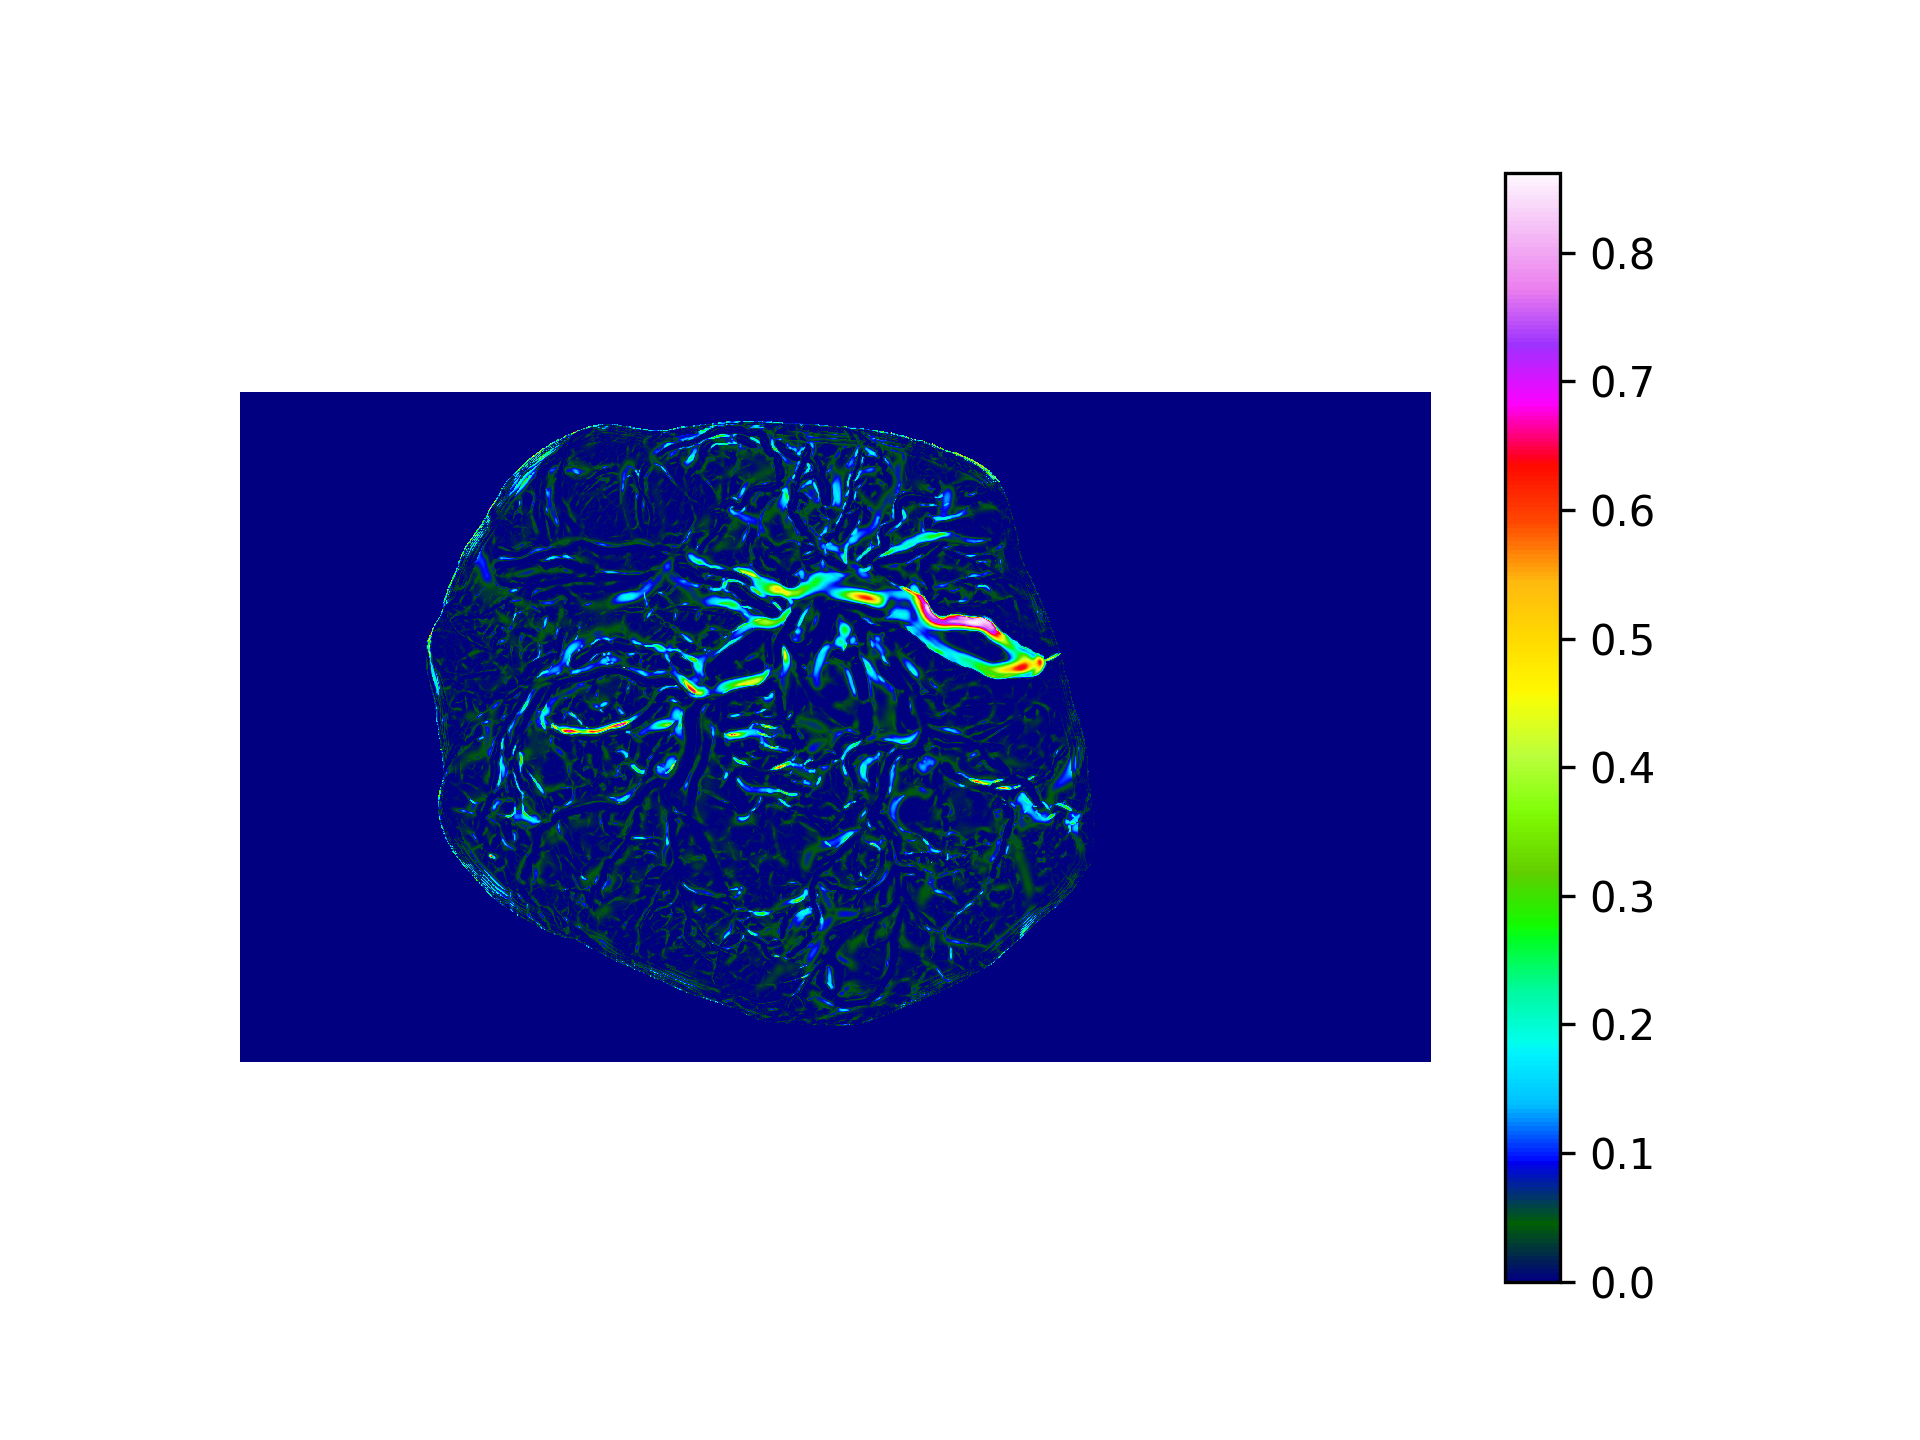
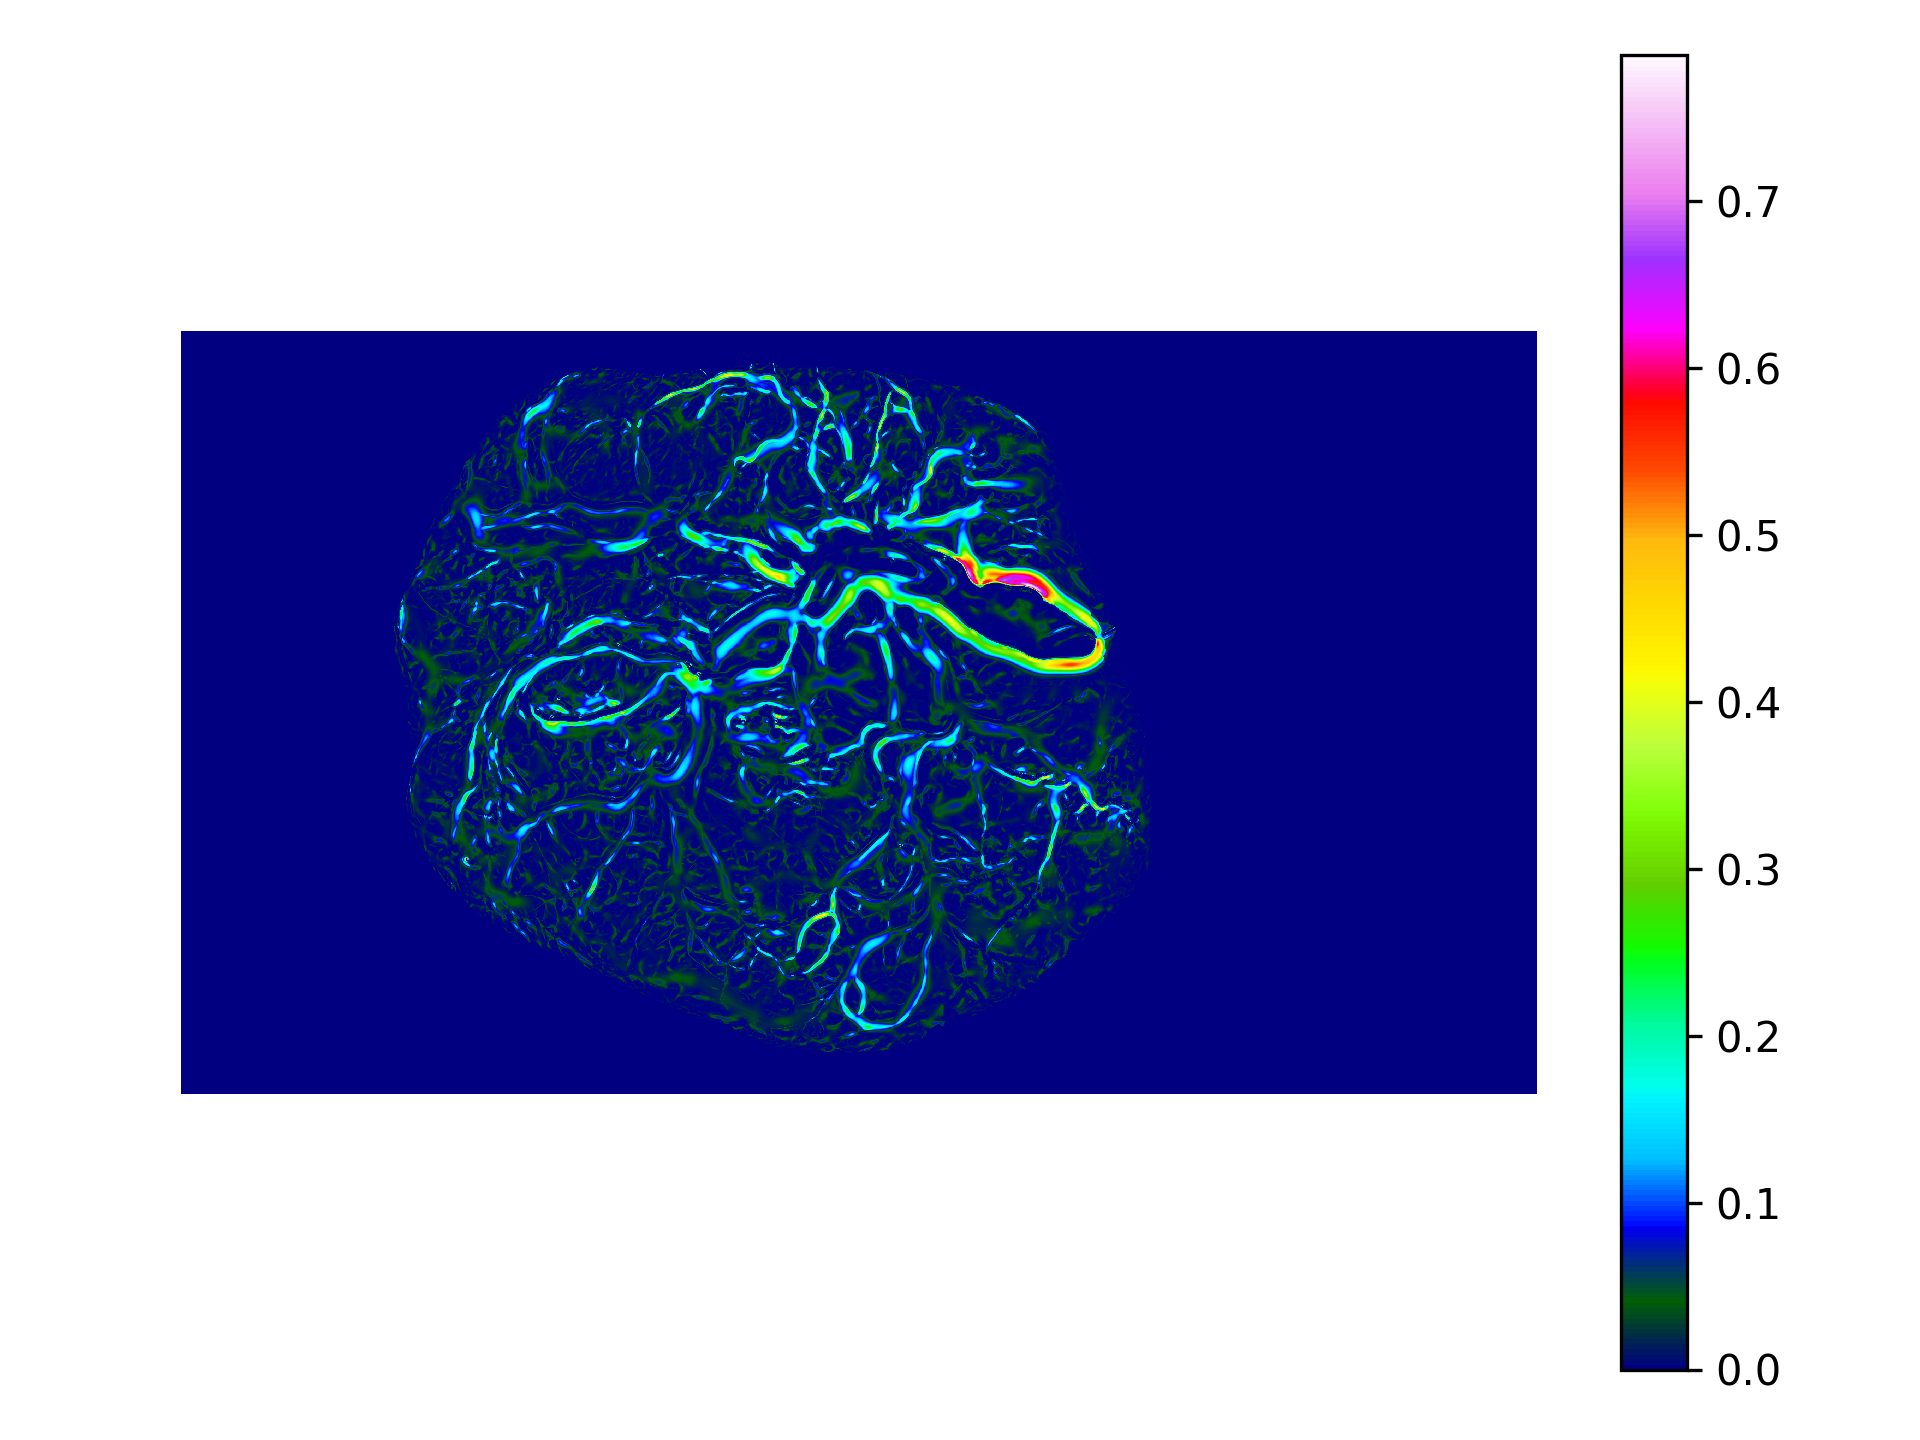
NEW PICTURES HAVE A DARK BACKGROUND WHICH MATTERS

Changed region(s): [[0.0938, 0.0312, 0.9375, 0.9688]]

diff --git a/pcsvn.py b/pcsvn.py
@@ -13,7 +13,8 @@ from skimage.morphology import label, skeletonize, disk, binary_erosion, convex_
 from skimage.segmentation import find_boundaries
 
 
-def make_multiscale(img, scales, betas, gammas, find_principal_directions=False, VERBOSE=True, trim_first=False):
+def make_multiscale(img, scales, betas, gammas, find_principal_directions=False,
+                    dark_bg=True, VERBOSE=True, trim_first=False):
     """returns an ordered list of dictionaries for each scale
     multiscale.append(
         {'sigma': sigma,
@@ -67,7 +68,7 @@ def make_multiscale(img, scales, betas, gammas, find_principal_directions=False,
 
         # calculate frangi targets at this scale
         targets = get_frangi_targets(k1,k2,
-                    beta=beta, gamma=gamma, dark_bg=True, threshold=False)
+                    beta=beta, gamma=gamma, dark_bg=dark_bg, threshold=False)
 
         #store results as a dictionary
         this_scale = {'sigma': sigma,
@@ -216,12 +217,12 @@ alpha = 0.2
 
 ###Set base image#############################
 
-#filename = 'barium1.png'
-#filename = 'barium2.png'
-filename = 'NYMH_ID130016u.png'
-#filename = 'NYMH_ID130016i.png'
+#filename = 'barium1.png'; DARK_BG = True
+#filename = 'barium2.png'; DARK_BG = True
+filename = 'NYMH_ID130016u.png'; DARK_BG = False
+#filename = 'NYMH_ID130016i.png'; DARK_BG = True
+#filename =  'im0059.png'; DARK_BG = False
 
-#raw_img = get_named_placenta('TA-BN2341348.png', mask='TA-BN2341348_mask.png')
 raw_img = get_named_placenta(filename, maskfile=None)
 
 ###Do preprocessing (e.g. clahe)###############
@@ -263,6 +264,7 @@ print("gammas will be calculated as half of hessian norm")
 
 multiscale = make_multiscale(img, scales, betas, gammas,
                              find_principal_directions=False,
+                             dark_bg=DARK_BG,
                              trim_first=EARLY_TRIM)
 
 #with open('barium2_multiscale_171024.pkl', 'rb') as f:
@@ -354,6 +356,7 @@ if __name__ == "__main__":
     plt.imshow(F_max.filled(0), cmap=plt.cm.gist_ncar)
     plt.axis('off')
     plt.colorbar()
+    plt.tight_layout()
     plt.savefig(base +'_fmax.png', dpi=300)
 
     # list of each scale's frangi targets for easier introspection
